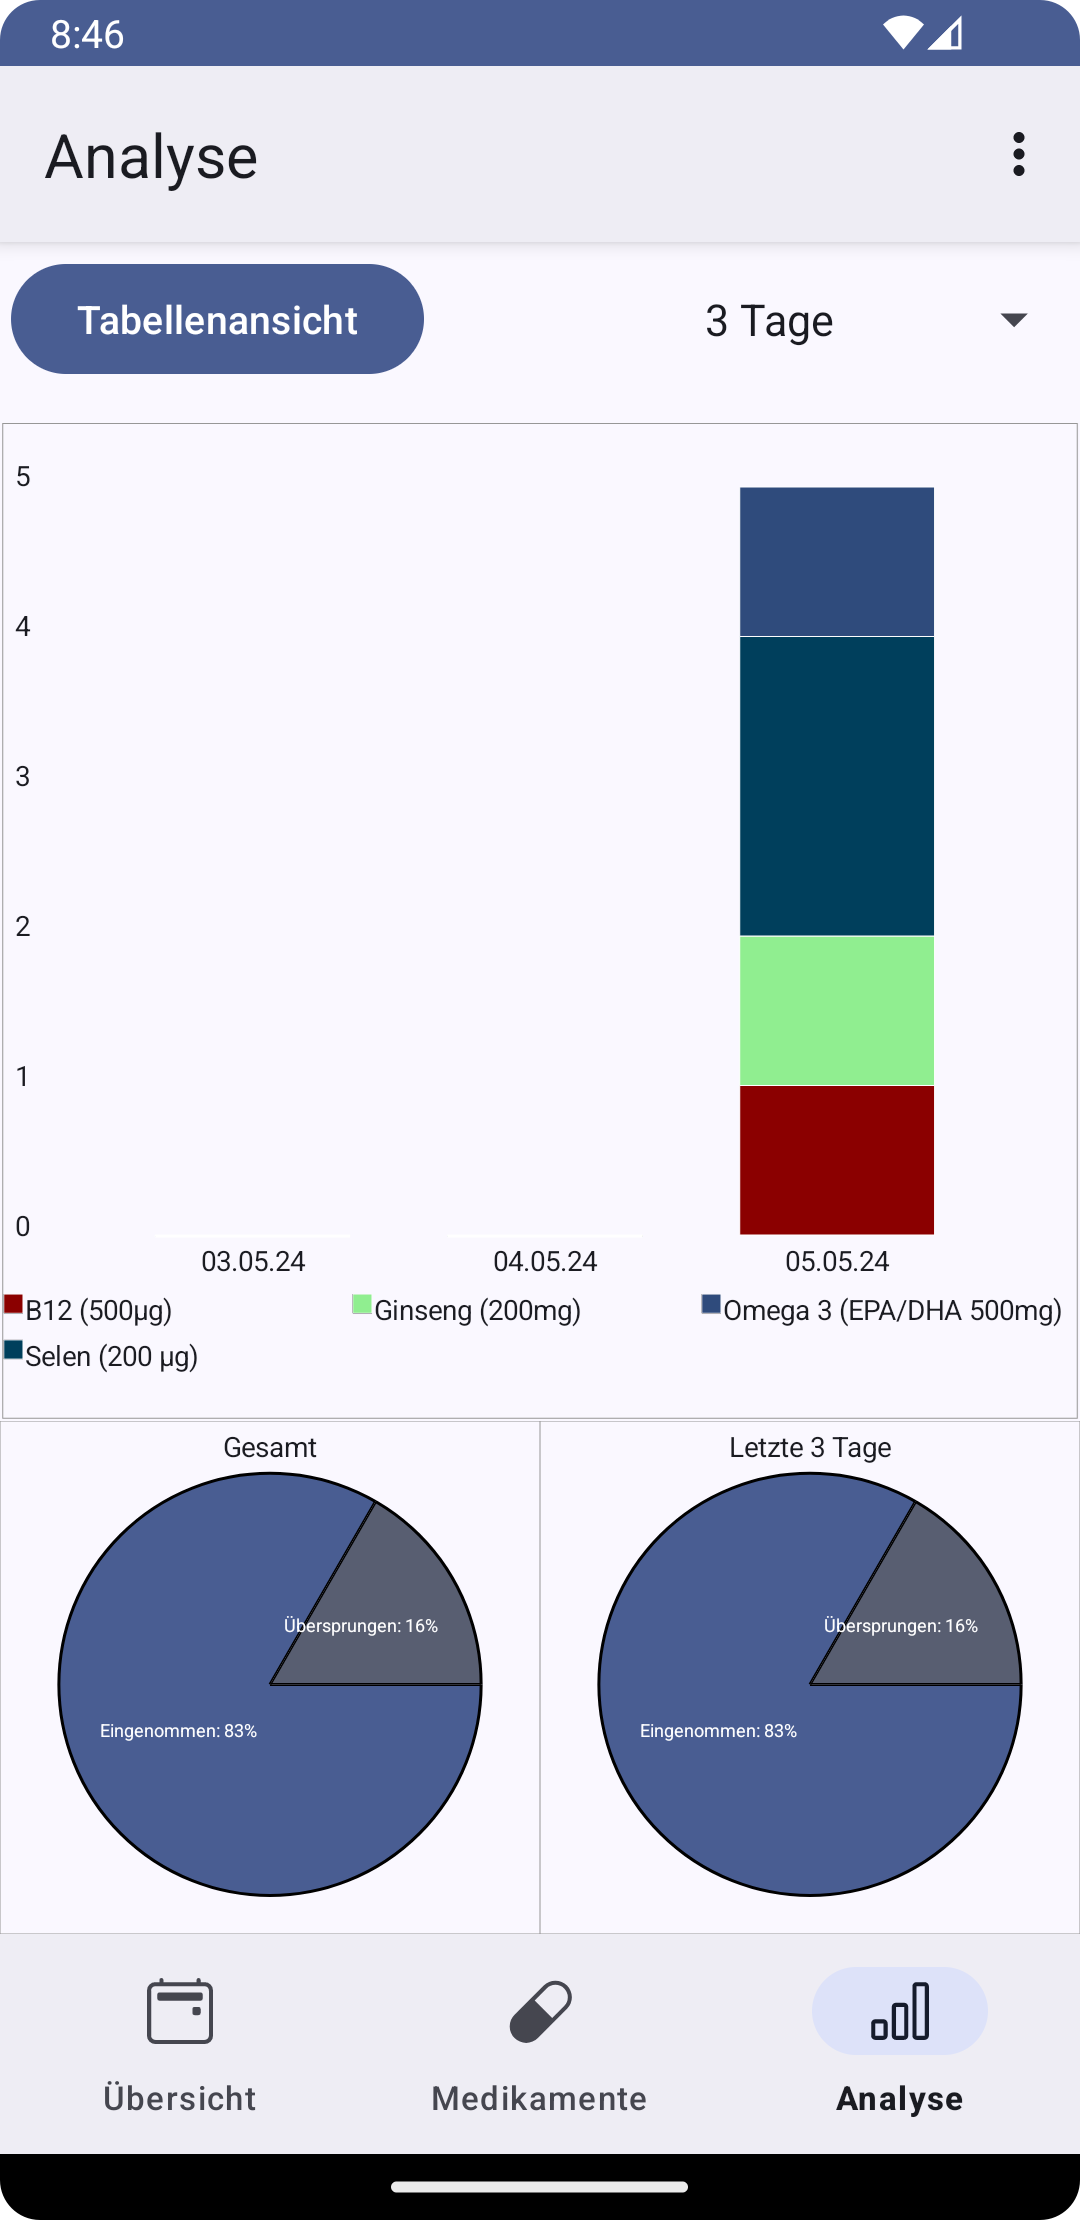
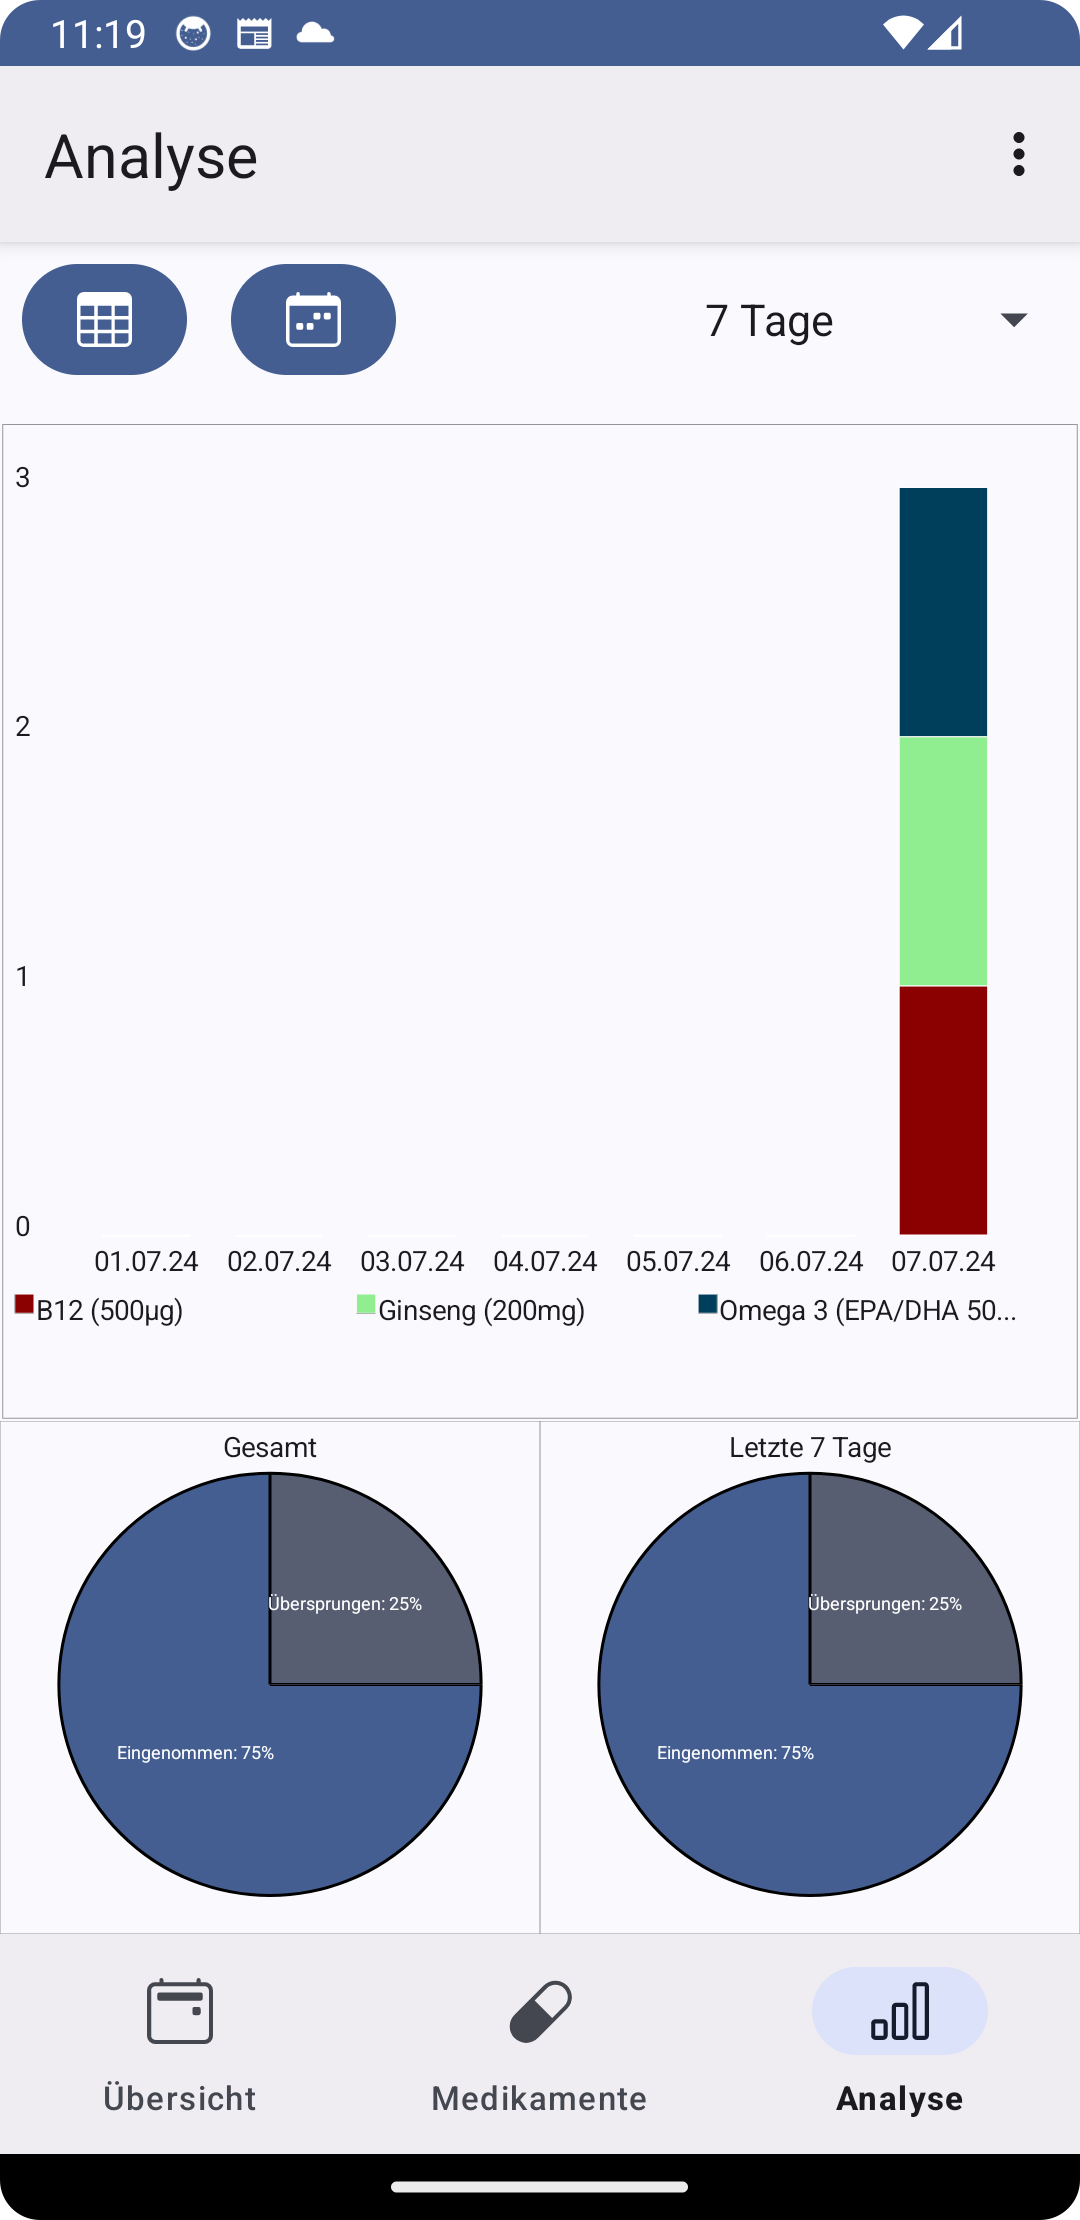
Updated screenshots

diff --git a/README.md b/README.md
@@ -7,8 +7,6 @@
 
 <img src="app/src/main/play/listings/en-US/graphics/feature-graphic/1.png" width="150" />
 
-The app is built targeting SDK 34 and requiring SDK 33 (>= Android 13).
-
 [<img src="https://fdroid.gitlab.io/artwork/badge/get-it-on.png"
 alt="Get it on F-Droid"
 height="80">](https://f-droid.org/packages/com.futsch1.medtimer/)
@@ -39,7 +37,9 @@ the [Releases Section](https://github.com/Futsch1/medTimer/releases/latest).
 
   <img src="app/src/main/play/listings/en-US/graphics/phone-screenshots/6.png" width="150" />
   &nbsp;
-  <img src="app/src/main/play/listings/en-US/graphics/phone-screenshots/7.png" width="150" /> 
+  <img src="app/src/main/play/listings/en-US/graphics/phone-screenshots/7.png" width="150" />
+
+  <img src="app/src/main/play/listings/en-US/graphics/phone-screenshots/8.png" width="150" />
 </p>
 
 Stay In Control of Your Medications with MedTimer
@@ -59,7 +59,7 @@ Flexible & Personalized Reminders:
 Simple & Secure Data Management:
 
 - Confirm or dismiss reminders to record medication adherence accurately.
-- Get an overview of past doses in a chart and a tabular view.
+- Get an overview of past doses in a chart, tabular or calendar view.
 - Export your medication history as a CSV file for easy record-keeping or sharing with healthcare
   professionals.
 - Backup and restore your medication list as JSON file.
@@ -73,6 +73,8 @@ MedTimer is a free app without adds.
 
 Keywords: Medication reminder, pill reminder, medication adherence, health app, privacy, offline
 
+The app is built targeting SDK 34 and requiring SDK 33 (>= Android 13).
+
 ## Dependencies
 
 MedTimer uses the following great open source libraries and dependencies:
@@ -84,3 +86,4 @@ MedTimer uses the following great open source libraries and dependencies:
 - [AndroidX Preference eXtended](https://github.com/takisoft/preferencex-android)
 - [Mockito](https://github.com/mockito/mockito)
 - [Robolectric](https://github.com/robolectric/robolectric)
+- [Calendar](https://github.com/kizitonwose/Calendar)
